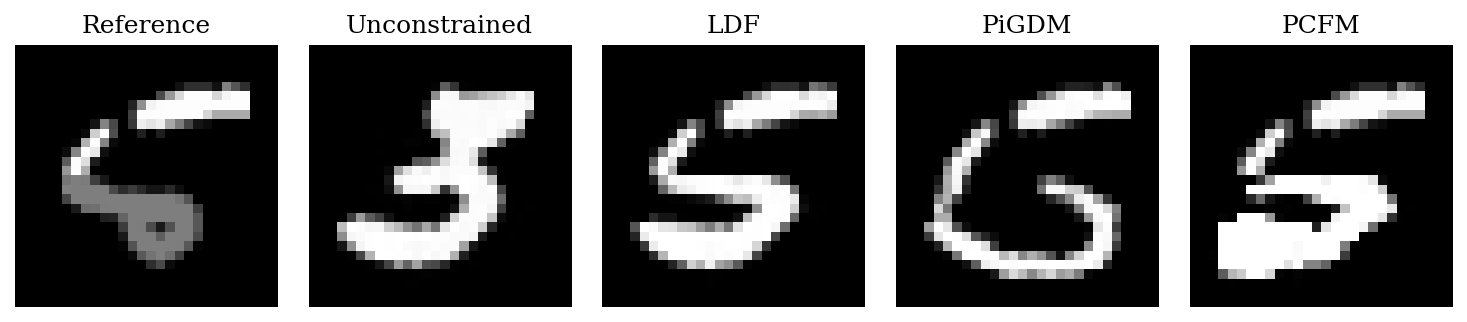
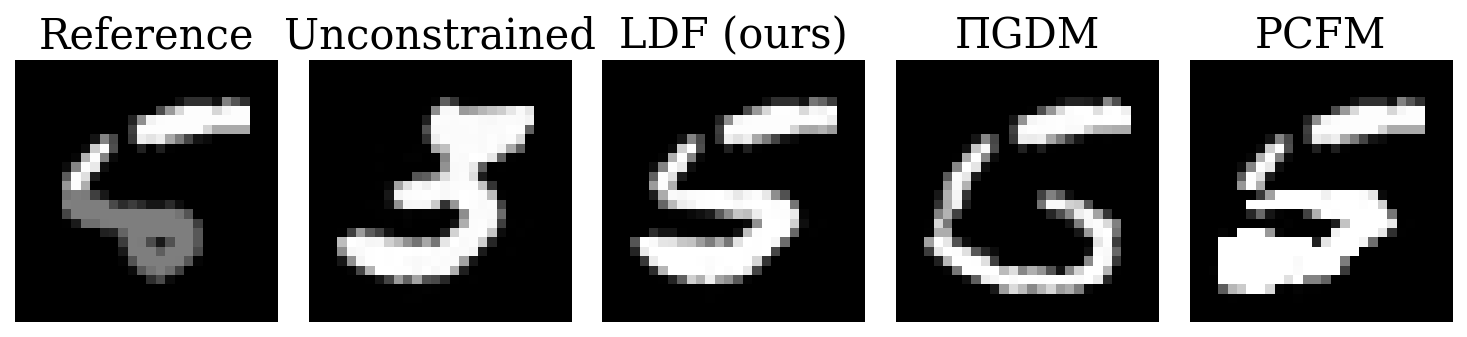
add penalty baseline for all inequality constrained examples

diff --git a/cfm/sweep.py b/cfm/sweep.py
@@ -34,7 +34,7 @@ import jax.numpy as jnp
 
 import problems
 from cfm import methods
-from cfm.core import checkpoint
+from cfm.core import checkpoint, constraints
 
 RESULTS_DIR = Path("results")
 
@@ -172,12 +172,17 @@ def build_cases(config: Dict[str, Any]) -> List[Case]:
     for block in _blocks(config):
         num_samples = block.get("num_samples", 20)
         overrides = block.get("gains", [])
-        problem_label = block.get("problem_label")
-        if problem_label and len(block["problems"]) > 1:
-            raise ValueError(
-                "problem_label renames one problem's rows, so a block that "
-                f"sets it may list only one problem; got {block['problems']}"
-            )
+        # A string renames the block's one problem; a table renames each
+        # problem it names, for a block that lists several.
+        problem_label = block.get("problem_label", {})
+        if isinstance(problem_label, str):
+            if len(block["problems"]) > 1:
+                raise ValueError(
+                    "a string problem_label renames one problem's rows, so a "
+                    "block that sets it may list only one problem; got "
+                    f"{block['problems']} (use a table to rename each)"
+                )
+            problem_label = {block["problems"][0]: problem_label}
 
         for problem_name in block["problems"]:
             problem = problems.get(problem_name)
@@ -217,7 +222,8 @@ def build_cases(config: Dict[str, Any]) -> List[Case]:
                         method=method_name,
                         variant=row_name,
                         row_label=variant.label if variant else method.label,
-                        problem_label=problem_label or problem.label,
+                        problem_label=problem_label.get(
+                            problem_name, problem.label),
                         steps=steps,
                         num_samples=num_samples,
                         gains=gains,
@@ -366,13 +372,7 @@ def render_table(records, fmt: str = "markdown") -> str:
         ])
 
     if fmt == "latex":
-        lines = [
-            r"\begin{tabular}{lllrr}", r"\toprule",
-            " & ".join(header) + r" \\", r"\midrule",
-        ]
-        lines += [" & ".join(row) + r" \\" for row in body]
-        lines += [r"\bottomrule", r"\end{tabular}"]
-        return "\n".join(lines)
+        return render_latex_table(records)
 
     widths = [
         max(len(header[i]), *(len(row[i]) for row in body))
@@ -387,6 +387,130 @@ def render_table(records, fmt: str = "markdown") -> str:
     rule = "|" + "|".join("-" * (w + 2) for w in widths) + "|"
     lines = [fmt_row(header), rule]
     lines += [fmt_row(row) for row in body]
+    return "\n".join(lines)
+
+
+# The LaTeX table's column groups, in order: a row name from the sweep (a
+# variant, or a method with none) and the header it sits under. A row name
+# missing here still gets a column, after these, headed by its method label.
+LATEX_COLUMNS = [
+    ("penalty", "Penalty only"),
+    ("cbf", r"CBF~\cite{safeflow2025}"),
+    ("pcfm", r"PCFM~\cite{utkarsh2025pcfm}"),
+    ("pigdm", r"$\Pi$GDM~\cite{pokle2024training}"),
+    ("ldf", "LDF (no proj.)"),
+    ("ldf_projected", "LDF + proj."),
+]
+
+# Bold times are within this factor of the fastest in their row; bold
+# violations are below the threshold, near single-precision round-off.
+LATEX_TIME_FACTOR = 1.2
+LATEX_VIOLATION_THRESHOLD = 1e-6
+
+
+def _latex_violation(value: float, num_nan: int) -> str:
+    r"""A violation as ``\sci{m}{e}``, bold (``\scib``) when it is negligible.
+
+    The ``\sci`` and ``\scib`` macros are the paper's, not LaTeX's.
+    """
+    if value == 0:
+        cell = r"\textbf{0}"
+    else:
+        mantissa, exponent = f"{value:.1e}".split("e")
+        macro = r"\scib" if value < LATEX_VIOLATION_THRESHOLD else r"\sci"
+        cell = f"{macro}{{{mantissa}}}{{{int(exponent)}}}"
+    # The mean is over the samples that did not NaN; the dagger says so.
+    return cell + r"~$\dagger$" if num_nan else cell
+
+
+def render_latex_table(records) -> str:
+    """Render benchmark records as the paper's LaTeX tabular.
+
+    One row per problem scenario, and a Time/Viol. column pair per method.
+    Equality-constrained rows come first, separated from the inequality ones
+    by a rule, and a method that does not apply to a row shows dashes. There
+    is no Steps column, so each scenario must be recorded at one resolution.
+    """
+    kinds = {}
+
+    def kind(r):
+        name = (r["problem"], json.dumps(r.get("problem_options") or {},
+                                         sort_keys=True))
+        if name not in kinds:
+            kinds[name] = problems.get(r["problem"]).make_constraint(
+                **(r.get("problem_options") or {})
+            ).kind
+        return kinds[name]
+
+    cells: Dict[Any, Dict[str, Dict[str, Any]]] = {}
+    for r in records:
+        label = r.get("problem_label") or problems.get(r["problem"]).label
+        row = (kind(r) != constraints.EQUALITY, r["problem"], label,
+               r["steps"])
+        column = r.get("variant") or r["method"]
+        if column in cells.setdefault(row, {}):
+            raise ValueError(
+                f"two results for {column!r} on {label} at {r['steps']} "
+                "steps; remove the stale one from the results directory"
+            )
+        cells[row][column] = r
+
+    columns = list(LATEX_COLUMNS)
+    known = {name for name, _ in columns}
+    for per_row in cells.values():
+        for name, r in per_row.items():
+            if name not in known:
+                columns.append((name, r["method_label"]))
+                known.add(name)
+
+    order = list(problems.all_problems())
+    rows = sorted(cells, key=lambda k: (
+        k[0], order.index(k[1]) if k[1] in order else 99, k[2], k[3],
+    ))
+    scenarios = [k[:3] for k in rows]
+    for k in rows:
+        if scenarios.count(k[:3]) > 1:
+            raise ValueError(
+                f"{k[2]} was run at more than one step count; the table has "
+                "no Steps column, so keep one resolution per scenario"
+            )
+
+    groups = "\n".join(
+        f"& \\multicolumn{{2}}{{c}}{{{header}}}" for _, header in columns
+    )
+    rules = "".join(
+        f"\\cmidrule(lr){{{2 + 2 * i}-{3 + 2 * i}}}"
+        for i in range(len(columns))
+    )
+    lines = [
+        r"\begin{tabular}{l" + "cc" * len(columns) + "}",
+        r"\toprule",
+        groups + r" \\",
+        rules,
+        " & ".join(["Problem"] + ["Time", "Viol."] * len(columns)) + r" \\",
+        r"\midrule",
+    ]
+
+    for i, row in enumerate(rows):
+        if i and row[0] != rows[i - 1][0]:
+            lines.append(r"\midrule")
+        per_row = cells[row]
+        fastest = min(r["mean_time_ms"] for r in per_row.values())
+        out = [row[2]]
+        for name, _ in columns:
+            r = per_row.get(name)
+            if r is None:
+                out += ["---", "---"]
+                continue
+            time_ms = f"{r['mean_time_ms']:.1f}"
+            if r["mean_time_ms"] <= LATEX_TIME_FACTOR * fastest:
+                time_ms = rf"\textbf{{{time_ms}}}"
+            out += [time_ms,
+                    _latex_violation(r["mean_violation"],
+                                     r.get("num_nan", 0))]
+        lines.append(" & ".join(out) + r" \\")
+
+    lines += [r"\bottomrule", r"\end{tabular}"]
     return "\n".join(lines)
 
 

diff --git a/tests/test_sweep_config.py b/tests/test_sweep_config.py
@@ -17,10 +17,10 @@ def _rows(cases, problem):
     return [c for c in cases if c.problem == problem]
 
 
-def _ldf_weights(cases):
-    """The penalty weight each LDF case runs at, keyed by step count."""
+def _ldf_weights(cases, method="ldf"):
+    """The penalty weight each LDF-family case runs at, keyed by step count."""
     return {(c.steps, c.gains["penalty_weight"])
-            for c in cases if c.method == "ldf"}
+            for c in cases if c.method == method}
 
 
 def test_flat_config_still_expands():
@@ -119,7 +119,7 @@ def test_a_block_only_runs_methods_the_constraint_admits():
     assert [c.method for c in cases] == ["cbf", "ldf"]
 
 
-def test_renaming_a_problem_needs_a_block_of_one():
+def test_renaming_a_problem_by_string_needs_a_block_of_one():
     with pytest.raises(ValueError, match="only one problem"):
         sweep.build_cases({
             "block": [{
@@ -129,34 +129,58 @@ def test_renaming_a_problem_needs_a_block_of_one():
         })
 
 
+def test_a_table_problem_label_renames_each_problem():
+    cases = sweep.build_cases({
+        "block": [{
+            "problems": ["star", "mnist"], "methods": ["ldf"],
+            "steps": [100], "problem_label": {"star": "Star (eq.)"},
+        }],
+    })
+    labels = {c.problem: c.problem_label for c in cases}
+    # A problem the table leaves out keeps its registered label.
+    assert labels == {"star": "Star (eq.)", "mnist": "MNIST"}
+
+
 def test_the_shipped_table1_config_expands():
     """The config the paper's table is built from stays loadable."""
     cases = sweep.build_cases(
         sweep.load_config("experiments/table1.toml")
     )
     rows = {(c.problem_label, c.row_label) for c in cases}
-    assert ("Star", "LDF (no projection)") in rows
-    assert ("Star", "LDF + projection") in rows
+    assert ("Star (eq.)", "LDF (no projection)") in rows
+    assert ("Star (eq.)", "LDF + projection") in rows
     assert ("MNIST", "Penalty only") in rows
-    assert ("Obstacle avoidance (2 obstacles)", "LDF + projection") in rows
-    assert ("Obstacle avoidance (6 obstacles)",
-            "CBF safety filter (SafeFlow)") in rows
-    assert ("Walker2D (medium-expert)",
-            "CBF safety filter (SafeFlow)") in rows
-    assert ("Hopper (medium-expert)", "LDF + projection") in rows
-    assert ("Star (inequality)", "CBF safety filter (SafeFlow)") in rows
-    # The star appears under both of its constraints, at the same two
-    # resolutions and the same penalty weights, so the two blocks differ in
+    assert ("Obstacles (2)", "LDF + projection") in rows
+    assert ("Obstacles (6)", "CBF safety filter (SafeFlow)") in rows
+    assert ("Walker2D", "CBF safety filter (SafeFlow)") in rows
+    assert ("Hopper", "LDF + projection") in rows
+    assert ("Star (ineq.)", "CBF safety filter (SafeFlow)") in rows
+    # Every scenario runs at one resolution, since the table has no Steps
+    # column to tell two apart.
+    assert len({(c.problem_label, c.name) for c in cases}) == len(cases)
+    # The star appears under both of its constraints, at the same
+    # resolution and the same penalty weight, so the two blocks differ in
     # the constraint and nothing else.
     star = _rows(cases, "star")
     equality = [c for c in star if not c.problem_options]
     inequality = [c for c in star if c.problem_options]
     assert all(c.problem_options == {"constraint": "right_half"}
                for c in inequality)
-    assert {c.steps for c in inequality} == {10, 100}
+    assert {c.steps for c in star} == {100}
     assert _ldf_weights(inequality) == _ldf_weights(equality)
+    # The penalty-only ablation runs on the inequality at LDF's weights.
+    assert ("Star (ineq.)", "Penalty only") in rows
+    assert (_ldf_weights(inequality, "penalty")
+            == _ldf_weights(inequality))
     # PCFM and PiGDM are equality-only and drop out of the inequality block.
-    assert {c.method for c in inequality} == {"cbf", "ldf"}
+    assert {c.method for c in inequality} == {"cbf", "penalty", "ldf"}
+    # The penalty-only ablation runs on every inequality problem, at the
+    # penalty weight LDF runs at there.
+    for problem in ("obstacles", "walker2d", "hopper"):
+        weights = {c.method: c.gains["penalty_weight"]
+                   for c in _rows(cases, problem)
+                   if c.method in ("ldf", "penalty")}
+        assert weights["penalty"] == weights["ldf"]
     # Every obstacle case runs at dt = 0.002 and every CBF one relaxes the QP.
     obstacles = _rows(cases, "obstacles")
     assert {c.steps for c in obstacles} == {500}
@@ -220,3 +244,51 @@ def test_baseline_ignores_a_scene_it_never_ran(tmp_path):
     path = _baseline(tmp_path, params={"num_obstacles": 2, "scene_seed": 0})
     record = _record(problem_options={"num_obstacles": 6, "scene_seed": 0})
     assert sweep.compare_to_baseline([record], path) == []
+
+
+def _table_record(variant, time_ms, violation, problem_options=None,
+                  num_nan=0, label="Star", steps=100):
+    return {
+        "problem": "star", "problem_label": label,
+        "problem_options": problem_options or {},
+        "method": variant.removesuffix("_projected"), "variant": variant,
+        "method_label": variant, "steps": steps,
+        "mean_time_ms": time_ms, "mean_violation": violation,
+        "num_nan": num_nan,
+    }
+
+
+def test_latex_table_pivots_methods_into_column_pairs():
+    """One row per scenario, equality above inequality, bolded by rule."""
+    ineq = {"constraint": "right_half"}
+    records = [
+        _table_record("cbf", 318.0, 0.0, ineq, num_nan=1,
+                      label="Star (ineq.)"),
+        _table_record("ldf", 7.7, 2.6e-3),
+        _table_record("pcfm", 29.6, 4.5e-8),
+        _table_record("ldf_projected", 7.9, 0.0, ineq,
+                      label="Star (ineq.)"),
+    ]
+    lines = sweep.render_latex_table(records).splitlines()
+    rows = [l for l in lines if l.startswith("Star")]
+    assert rows == [
+        r"Star & --- & --- & --- & --- & 29.6 & \scib{4.5}{-8} & --- & --- "
+        r"& \textbf{7.7} & \sci{2.6}{-3} & --- & --- \\",
+        r"Star (ineq.) & --- & --- & 318.0 & \textbf{0}~$\dagger$ "
+        r"& --- & --- & --- & --- & --- & --- & \textbf{7.9} & \textbf{0} \\",
+    ]
+    # The two halves are split by a rule.
+    assert lines.index(rows[1]) == lines.index(rows[0]) + 2
+
+
+def test_latex_table_refuses_a_scenario_at_two_step_counts():
+    records = [_table_record("ldf", 1.0, 1e-2, steps=10),
+               _table_record("ldf", 8.0, 1e-3, steps=100)]
+    with pytest.raises(ValueError, match="more than one step count"):
+        sweep.render_latex_table(records)
+
+
+def test_latex_table_refuses_two_results_for_one_cell():
+    records = [_table_record("ldf", 1.0, 1e-2), _table_record("ldf", 2.0, 1e-2)]
+    with pytest.raises(ValueError, match="stale"):
+        sweep.render_latex_table(records)

diff --git a/plots.py b/plots.py
@@ -585,15 +585,15 @@ def plot_mnist_mini(
     panels = [
         (masked_ref, "Reference"),
         (_cached(data, "unconstrained"), "Unconstrained"),
-        (_cached(data, "ldf"), "LDF"),
-        (_cached(data, "pigdm"), "PiGDM"),
+        (_cached(data, "ldf"), "LDF (ours)"),
+        (_cached(data, "pigdm"), "ΠGDM"),
         (_cached(data, "pcfm"), "PCFM"),
     ]
 
     fig, axes = plt.subplots(1, len(panels), figsize=(2.0 * len(panels), 2.3))
     for ax, (img, title) in zip(axes, panels):
         ax.imshow(img.squeeze(-1), cmap="gray", vmin=0, vmax=1)
-        ax.set_title(title, fontsize=12)
+        ax.set_title(title, fontsize=20)
         ax.axis("off")
     fig.tight_layout()
     out = FIG_DIR / "mnist_mini.png"
